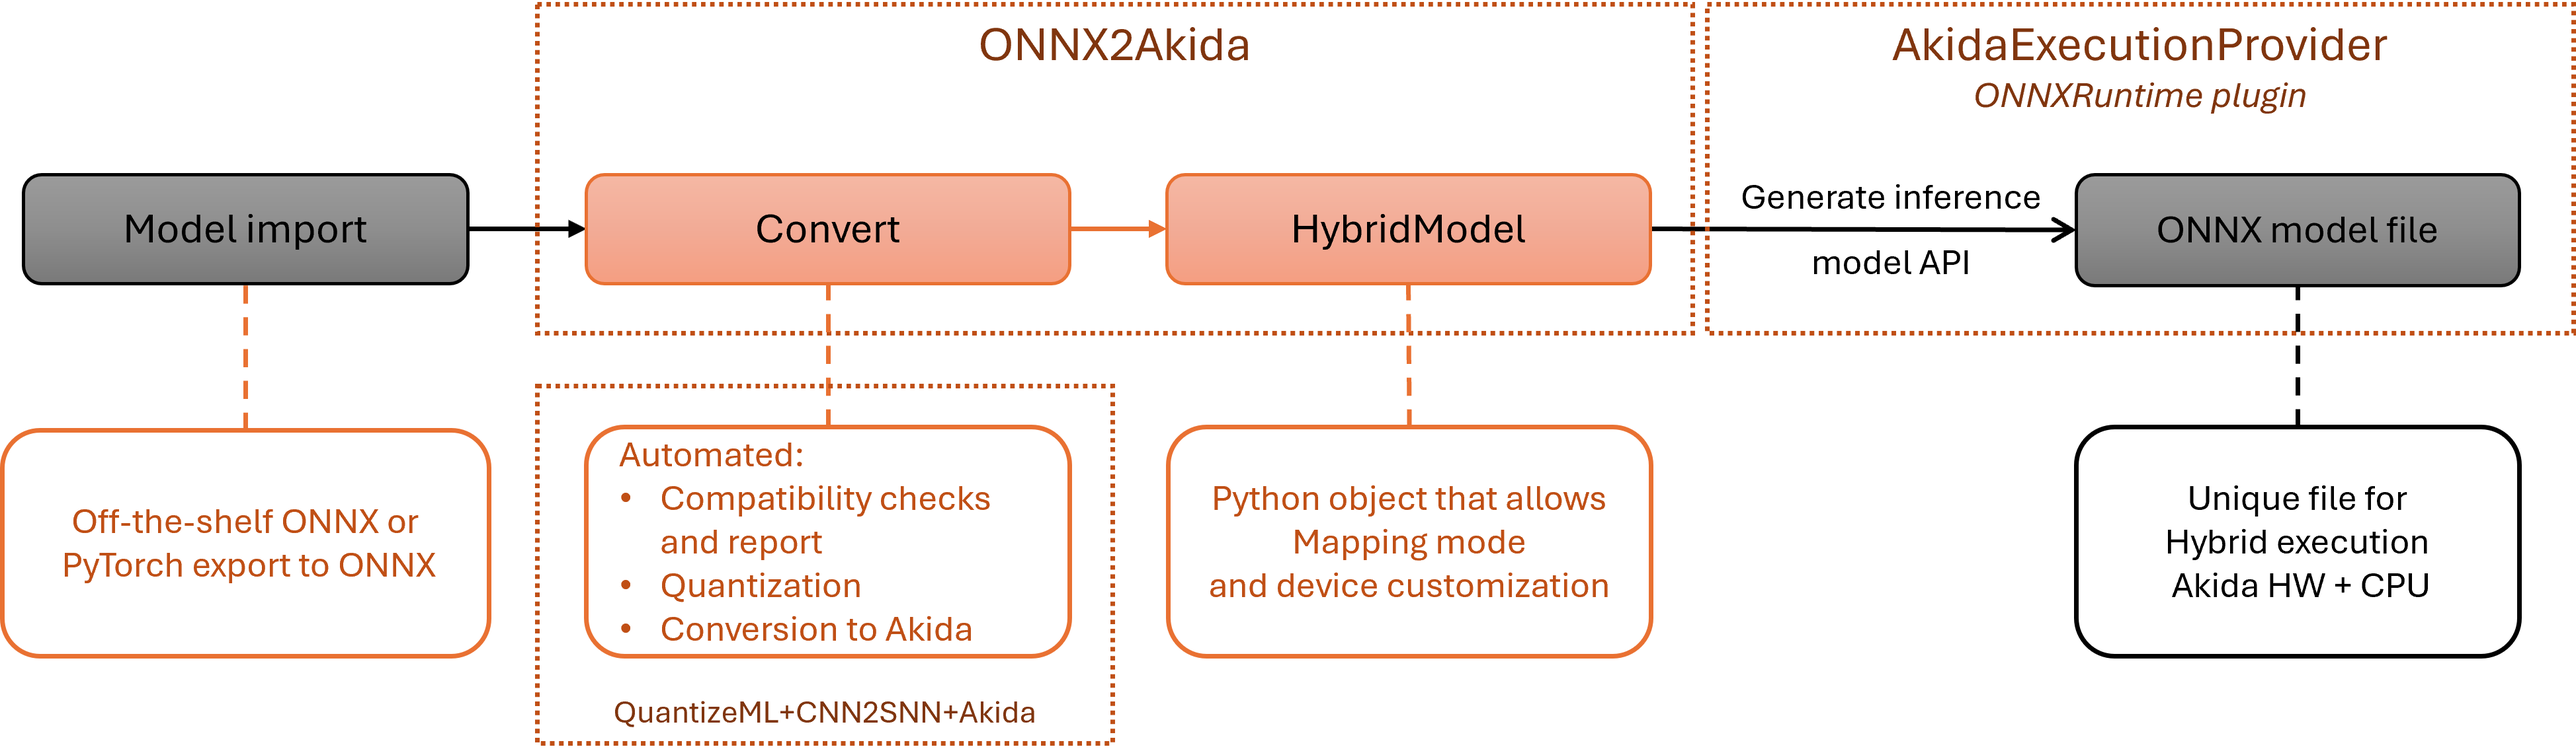
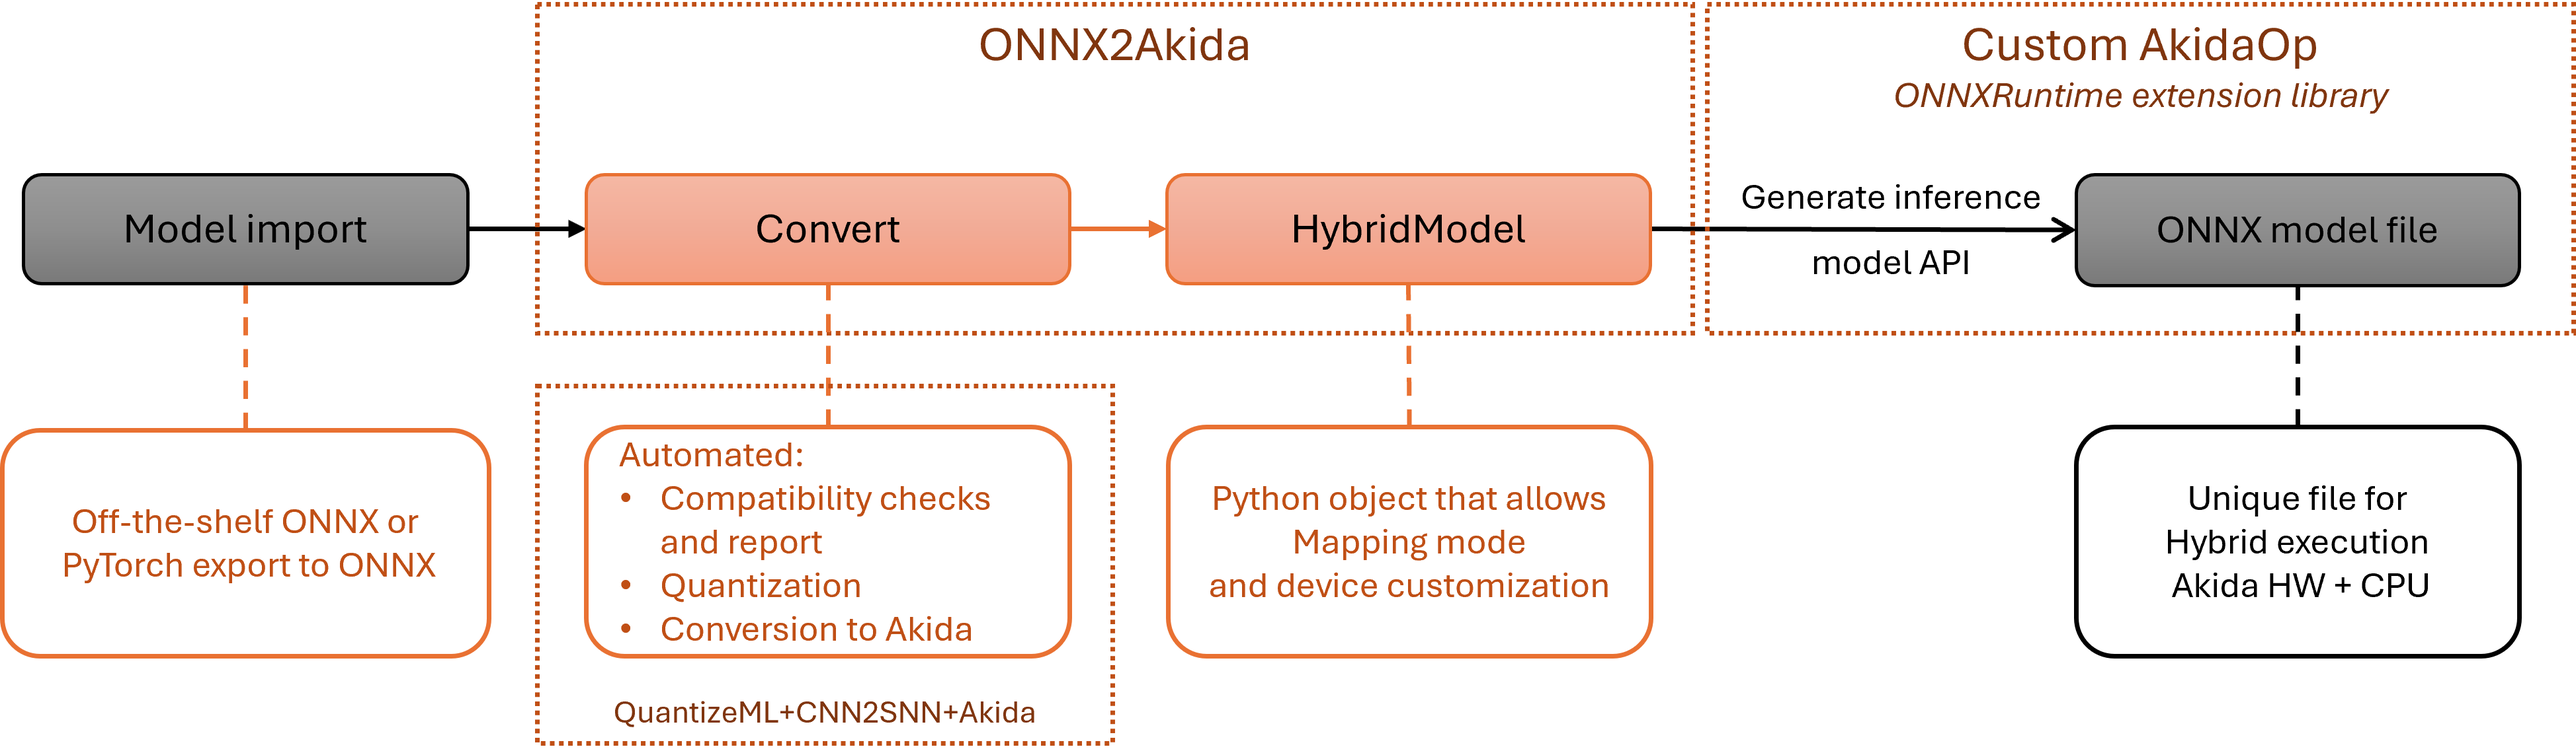
feat: remove mentions to execution provider

Changed region(s): [[0.7456, 0.0308, 0.932, 0.1539]]

diff --git a/doc/index.rst b/doc/index.rst
@@ -29,9 +29,8 @@ Akida-accelerated and CPU-executed subgraphs, and generating heterogeneous infer
 models that maximize hardware utilization while ensuring complete model execution.
 
 
-MetaONNX consists of the **onnx2akida** Python package and the **onnxruntime-akida**
-execution provider, both installed from the `PyPI <https://pypi.org/>`_ repository
-via the `pip` command. The framework provides:
+MetaONNX is based on the **onnx2akida** Python package installed from the `PyPI
+<https://pypi.org/>`_ repository via the `pip` command. The framework provides:
 
    * **ONNX model ingestion** - accepts any valid ONNX model as input, regardless of
      operator support on Akida hardware,
@@ -39,7 +38,7 @@ via the `pip` command. The framework provides:
    * **automatic graph partitioning** - analyzes the model graph and intelligently
      partitions it into subgraphs for optimal execution on Akida hardware and CPU,
 
-   * **Akida Execution Provider** - a core component that identifies and assigns
+   * **AkidaOp library** - a core component that identifies and assigns
      supported neural network operators to the Akida 2nd Generation hardware,
 
    * **CPU fallback execution** - ensures operators not supported by Akida can be
@@ -66,22 +65,6 @@ Akida platform without being constrained by hardware-specific operator limitatio
    :align: center
 
    MetaONNX execution flow
-
-The **Akida Execution Provider** functions as a custom provider within
-the ONNX Runtime framework, orchestrating heterogeneous execution between Akida
-hardware and CPU. This architecture enables:
-
-   * **universal model support** - execute any ONNX model, even those with operators
-     not supported by Akida, by automatically managing CPU fallback execution,
-
-   * **optimized performance** - leverage Akida's neuromorphic architecture for
-     supported operations while maintaining accuracy with CPU execution for unsupported
-     layers, minimizing data transfer overhead,
-
-   * **seamless integration** - generated hybrid models use standard ONNX format with
-     custom `AkidaOp`` nodes, allowing integration with existing ONNX-based pipelines
-     and embedded systems.
-
 
 The MetaONNX examples
 ---------------------

diff --git a/doc/user_guide/onnx2akida.rst b/doc/user_guide/onnx2akida.rst
@@ -70,7 +70,7 @@ effectively building into a fully ONNX node based model.
    infer_model = hybrid_model.generate_inference_model(dirpath=".")
 
 The ``dirpath`` argument specifies the folder where Akida submodel binaries will be stored.
-The resulting hybrid ONNX model is compatible with ONNXRuntime with AkidaExecutionProvider for inference.
+The resulting hybrid ONNX model is compatible with ONNXRuntime for inference.
 
 .. note::
     The global workflow described here is detailed in the dedicated examples available in

diff --git a/doc/installation.rst b/doc/installation.rst
@@ -44,9 +44,6 @@ MetaTF version used is {METATF_VERSION}.
       python3.11 -m venv onnx2akida_venv
       source onnx2akida_venv/bin/activate
 
-    .. code-block:: bash
-        TODO: Add ORT and AkidaEP installation instructions
-
 Running examples
 ----------------
 
